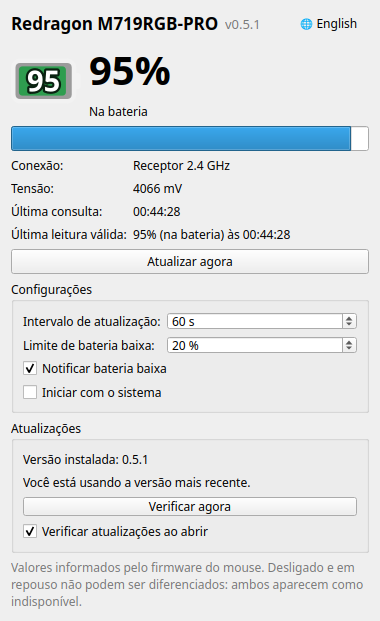
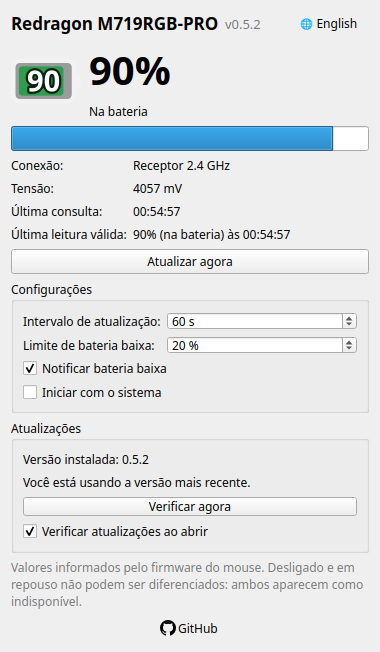
Versão 0.5.2: botão do GitHub no rodapé da janela

Changed region(s): [[0.0289, 0.0, 0.9842, 0.9791], [0.7816, 0.0306, 0.9263, 0.0612]]

diff --git a/src/redragon_monitor/presentation/gui/main_window/main_window.py b/src/redragon_monitor/presentation/gui/main_window/main_window.py
@@ -20,6 +20,7 @@ from PySide6.QtWidgets import (
 from redragon_monitor.battery.domain.battery_status import BatteryStatus
 from redragon_monitor.presentation.gui.app_settings import AppSettings
 from redragon_monitor.presentation.gui.battery_icon_painter import BatteryIconPainter
+from redragon_monitor.presentation.gui.github_icon import GithubIcon
 from redragon_monitor.presentation.text.status_text_formatter import StatusTextFormatter
 from redragon_monitor.update.domain.update_check import UpdateCheck
 from redragon_monitor.update.domain.update_status import UpdateStatus
@@ -45,6 +46,7 @@ class MainWindow(QWidget):
     check_update_requested = Signal()
     install_update_requested = Signal()
     check_updates_changed = Signal(bool)
+    repository_requested = Signal()
 
     def __init__(
         self,
@@ -94,6 +96,8 @@ class MainWindow(QWidget):
         self.check_update_button.setText(t("update.check"))
         self.install_update_button.setText(t("update.install"))
         self.check_updates_check.setText(t("update.auto"))
+        self.github_button.setText(t("window.github"))
+        self.github_button.setToolTip(t("window.github.tooltip"))
         self._render()
         self._render_update()
 
@@ -239,6 +243,10 @@ class MainWindow(QWidget):
         self.install_update_button = QPushButton()
         self.install_update_button.setVisible(False)
         self.install_update_button.clicked.connect(self.install_update_requested)
+        self.github_button = QPushButton()
+        self.github_button.setFlat(True)
+        self.github_button.setIcon(GithubIcon().icon(self.palette().windowText().color()))
+        self.github_button.clicked.connect(self.repository_requested)
         self.check_updates_check = QCheckBox()
         self.check_updates_check.setChecked(settings.check_updates)
         self.check_updates_check.toggled.connect(self.check_updates_changed)
@@ -292,3 +300,8 @@ class MainWindow(QWidget):
         root.addWidget(self.settings_box)
         root.addWidget(self._build_update_box())
         root.addWidget(self.note_label)
+        footer = QHBoxLayout()
+        footer.addStretch(1)
+        footer.addWidget(self.github_button)
+        footer.addStretch(1)
+        root.addLayout(footer)

diff --git a/src/redragon_monitor/presentation/gui/gui_controller/gui_controller.py b/src/redragon_monitor/presentation/gui/gui_controller/gui_controller.py
@@ -3,7 +3,8 @@ from __future__ import annotations
 import logging
 from typing import Optional
 
-from PySide6.QtCore import QObject, QThread, QTimer, Signal, Slot
+from PySide6.QtCore import QObject, QThread, QTimer, QUrl, Signal, Slot
+from PySide6.QtGui import QDesktopServices
 from PySide6.QtWidgets import QApplication, QMessageBox
 
 from redragon_monitor.autostart.application.ports.autostart import Autostart
@@ -41,6 +42,7 @@ class GuiController(QObject):
         detector: LanguageDetector,
         update_worker: UpdateWorker,
         update_launcher: UpdateLauncher,
+        repository_url: str,
     ):
         super().__init__()
         self._app = app
@@ -53,6 +55,7 @@ class GuiController(QObject):
         self._detector = detector
         self._update_worker = update_worker
         self._update_launcher = update_launcher
+        self._repository_url = repository_url
         self._update: Optional[UpdateCheck] = None
         self._busy = False
         self._thread = QThread(self)
@@ -114,6 +117,10 @@ class GuiController(QObject):
             self._translator.t("update.manual.title"),
             self._translator.t("update.manual.body", command=self._update_launcher.manual_command()),
         )
+
+    @Slot()
+    def open_repository(self) -> None:
+        QDesktopServices.openUrl(QUrl(self._repository_url))
 
     @Slot(bool)
     def on_check_updates(self, value: bool) -> None:
@@ -212,6 +219,7 @@ class GuiController(QObject):
         self._window.check_update_requested.connect(self.check_update)
         self._window.install_update_requested.connect(self.install_update)
         self._window.check_updates_changed.connect(self.on_check_updates)
+        self._window.repository_requested.connect(self.open_repository)
 
     def _connect_tray(self) -> None:
         if self._tray is None:

diff --git a/src/redragon_monitor/presentation/gui/github_icon/github_icon.py b/src/redragon_monitor/presentation/gui/github_icon/github_icon.py
@@ -1,0 +1,33 @@
+from PySide6.QtCore import QByteArray, Qt
+from PySide6.QtGui import QColor, QIcon, QPainter, QPixmap
+from PySide6.QtSvg import QSvgRenderer
+
+MARK_PATH = (
+    "M8 0C3.58 0 0 3.58 0 8c0 3.54 2.29 6.53 5.47 7.59.4.07.55-.17.55-.38 0-.19-.01-.82-.01-1.49"
+    "-2.01.37-2.53-.49-2.69-.94-.09-.23-.48-.94-.82-1.13-.28-.15-.68-.52-.01-.53.63-.01 1.08.58 1.23.82"
+    ".72 1.21 1.87.87 2.33.66.07-.52.28-.87.51-1.07-1.78-.2-3.64-.89-3.64-3.95 0-.87.31-1.59.82-2.15"
+    "-.08-.2-.36-1.02.08-2.12 0 0 .67-.21 2.2.82.64-.18 1.32-.27 2-.27.68 0 1.36.09 2 .27 1.53-1.04 2.2-.82"
+    " 2.2-.82.44 1.1.16 1.92.08 2.12.51.56.82 1.27.82 2.15 0 3.07-1.87 3.75-3.65 3.95.29.25.54.73.54 1.48"
+    " 0 1.07-.01 1.93-.01 2.2 0 .21.15.46.55.38A8.013 8.013 0 0016 8c0-4.42-3.58-8-8-8z"
+)
+SIZES = (16, 24, 32, 48)
+
+
+class GithubIcon:
+    def icon(self, color: QColor) -> QIcon:
+        icon = QIcon()
+        for size in SIZES:
+            icon.addPixmap(self.pixmap(color, size))
+        return icon
+
+    def pixmap(self, color: QColor, size: int) -> QPixmap:
+        svg = (
+            f'<svg xmlns="http://www.w3.org/2000/svg" viewBox="0 0 16 16">'
+            f'<path fill="{color.name()}" d="{MARK_PATH}"/></svg>'
+        )
+        pixmap = QPixmap(size, size)
+        pixmap.fill(Qt.transparent)
+        painter = QPainter(pixmap)
+        QSvgRenderer(QByteArray(svg.encode("utf-8"))).render(painter)
+        painter.end()
+        return pixmap

diff --git a/src/redragon_monitor/presentation/i18n/catalog/catalog.py b/src/redragon_monitor/presentation/i18n/catalog/catalog.py
@@ -56,6 +56,8 @@ PT = {
     "autostart.error": "Não foi possível alterar: {error}",
     "notify.title": "Bateria do mouse baixa",
     "notify.body": "Redragon M719RGB-PRO com {percent}%. Conecte o cabo USB-C.",
+    "window.github": "GitHub",
+    "window.github.tooltip": "Abrir o repositório no GitHub para sugerir melhorias ou relatar problemas",
     "update.section": "Atualizações",
     "update.installed": "Versão instalada: {version}",
     "update.checking": "Verificando atualizações…",
@@ -131,6 +133,8 @@ EN = {
     "autostart.error": "Could not change it: {error}",
     "notify.title": "Mouse battery low",
     "notify.body": "Redragon M719RGB-PRO at {percent}%. Connect the USB-C cable.",
+    "window.github": "GitHub",
+    "window.github.tooltip": "Open the GitHub repository to suggest improvements or report issues",
     "update.section": "Updates",
     "update.installed": "Installed version: {version}",
     "update.checking": "Checking for updates…",

diff --git a/tests/test_gui.py b/tests/test_gui.py
@@ -135,3 +135,24 @@ def test_check_updates_setting(settings):
     assert settings.check_updates
     settings.check_updates = False
     assert not settings.check_updates
+
+
+def test_github_button_requests_repository(app, settings):
+    w = window(settings)
+    requested = []
+    w.repository_requested.connect(lambda: requested.append(True))
+    assert w.github_button.text() == "GitHub"
+    assert "GitHub" in w.github_button.toolTip()
+    assert not w.github_button.icon().isNull()
+    w.github_button.click()
+    assert requested == [True]
+
+
+def test_github_icon_renders(app):
+    from PySide6.QtGui import QColor
+
+    from redragon_monitor.presentation.gui.github_icon import GithubIcon
+
+    image = GithubIcon().pixmap(QColor("#000000"), 32).toImage()
+    opaque = sum(1 for x in range(32) for y in range(32) if image.pixelColor(x, y).alpha() > 0)
+    assert 200 < opaque < 32 * 32

diff --git a/src/redragon_monitor/presentation/gui/gui_app/gui_app.py b/src/redragon_monitor/presentation/gui/gui_app/gui_app.py
@@ -40,6 +40,7 @@ class GuiApp:
         detector: LanguageDetector,
         check_for_update: CheckForUpdateUseCase,
         update_launcher: UpdateLauncher,
+        repository_url: str,
     ):
         self._monitor_factory = monitor_factory
         self._autostart = autostart
@@ -49,6 +50,7 @@ class GuiApp:
         self._detector = detector
         self._check_for_update = check_for_update
         self._update_launcher = update_launcher
+        self._repository_url = repository_url
 
     def run(self, minimized: bool) -> int:
         app = self._create_application()
@@ -103,4 +105,5 @@ class GuiApp:
             self._detector,
             UpdateWorker(self._check_for_update),
             self._update_launcher,
+            self._repository_url,
         )

diff --git a/src/redragon_monitor/bootstrap/container/container.py b/src/redragon_monitor/bootstrap/container/container.py
@@ -36,6 +36,7 @@ from redragon_monitor.update.domain.version import Version
 from redragon_monitor.update.infrastructure.github_stable_ref_source import GitHubStableRefSource
 from redragon_monitor.update.infrastructure.terminal_update_launcher import TerminalUpdateLauncher
 
+REPOSITORY_URL = "https://github.com/jean-devbr/redragon-battery-monitor"
 INSTALLER_URL = "https://raw.githubusercontent.com/jean-devbr/redragon-battery-monitor/main/get.sh"
 
 
@@ -99,6 +100,7 @@ class Container:
             self._detector,
             self.check_for_update(),
             self.update_launcher(),
+            REPOSITORY_URL,
         )
 
     def _build_read_battery(self) -> ReadBatteryUseCase:

diff --git a/src/redragon_monitor/__init__.py b/src/redragon_monitor/__init__.py
@@ -1,1 +1,1 @@
-__version__ = "0.5.1"
+__version__ = "0.5.2"

diff --git a/src/redragon_monitor/presentation/gui/github_icon/__init__.py b/src/redragon_monitor/presentation/gui/github_icon/__init__.py
@@ -1,0 +1,1 @@
+from .github_icon import GithubIcon

diff --git a/README.md b/README.md
@@ -4,7 +4,7 @@
 
 **Nível real da bateria do mouse Redragon M719RGB-PRO no Ubuntu**
 
-[![Versão](https://img.shields.io/badge/vers%C3%A3o-0.5.1-2e9d4f?style=for-the-badge)](https://github.com/jean-devbr/redragon-battery-monitor/tree/v0.5.1)
+[![Versão](https://img.shields.io/badge/vers%C3%A3o-0.5.2-2e9d4f?style=for-the-badge)](https://github.com/jean-devbr/redragon-battery-monitor/tree/v0.5.2)
 
 ![Ubuntu](https://img.shields.io/badge/Ubuntu-24.04-E95420?style=flat-square&logo=ubuntu&logoColor=white)
 ![Python](https://img.shields.io/badge/Python-3.10%2B-3776AB?style=flat-square&logo=python&logoColor=white)

diff --git a/README.en.md b/README.en.md
@@ -4,7 +4,7 @@
 
 **Real battery level of the Redragon M719RGB-PRO mouse on Ubuntu**
 
-[![Version](https://img.shields.io/badge/version-0.5.1-2e9d4f?style=for-the-badge)](https://github.com/jean-devbr/redragon-battery-monitor/tree/v0.5.1)
+[![Version](https://img.shields.io/badge/version-0.5.2-2e9d4f?style=for-the-badge)](https://github.com/jean-devbr/redragon-battery-monitor/tree/v0.5.2)
 
 ![Ubuntu](https://img.shields.io/badge/Ubuntu-24.04-E95420?style=flat-square&logo=ubuntu&logoColor=white)
 ![Python](https://img.shields.io/badge/Python-3.10%2B-3776AB?style=flat-square&logo=python&logoColor=white)
